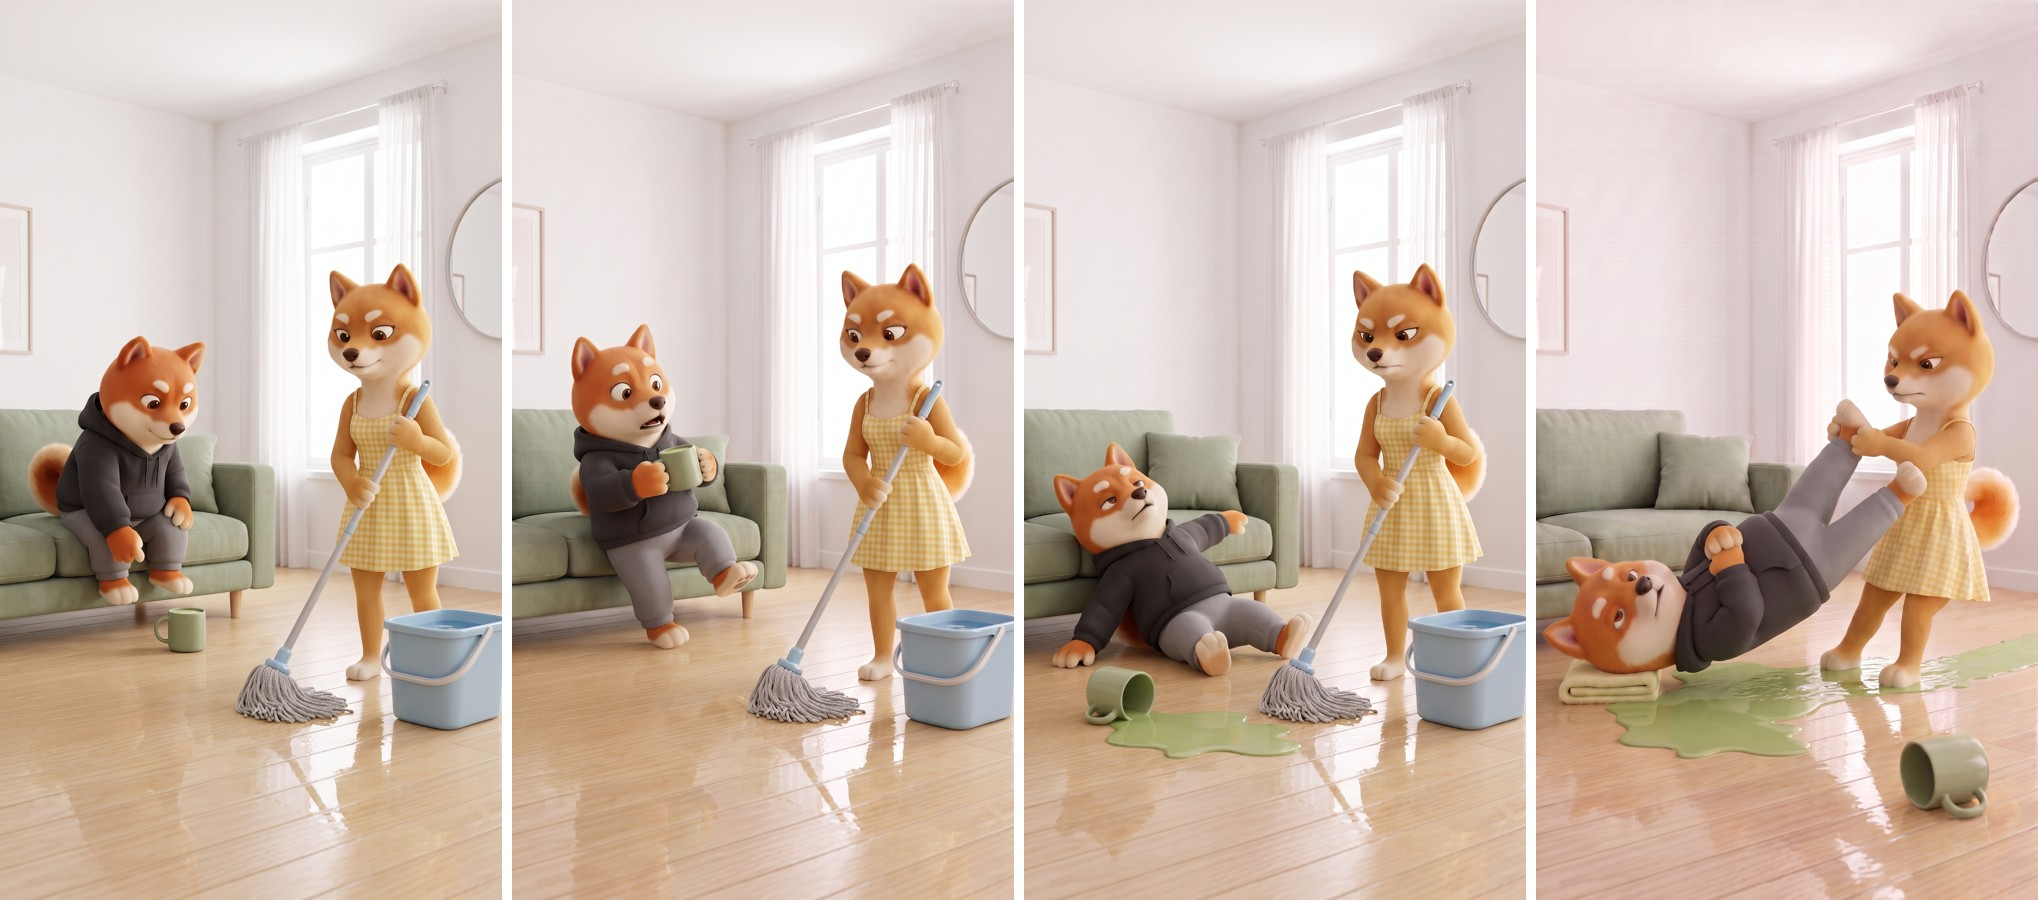
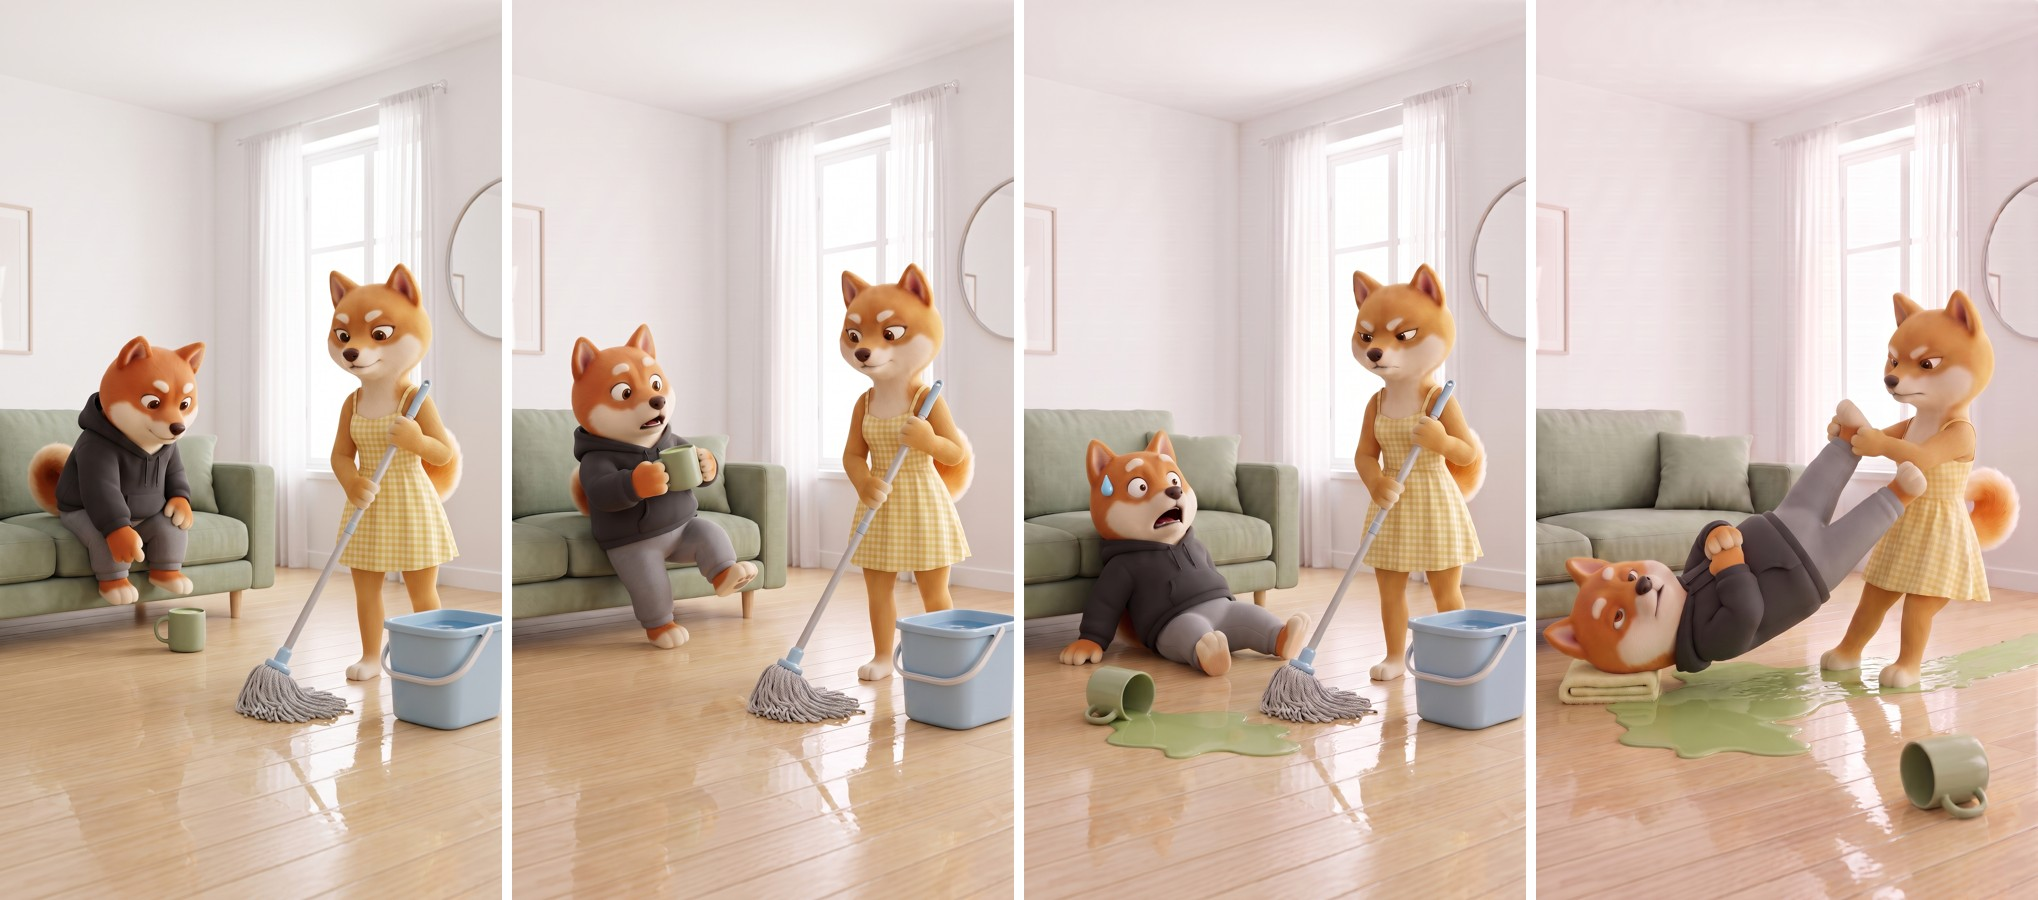
Human mop: Kenji panics after the spill
Claude-Session: https://claude.ai/code/session_01LDc9S6T3fQU2rZjsRh7sGC

diff --git a/daily/2026-11-07/v4-jobs.md b/daily/2026-11-07/v4-jobs.md
@@ -41,3 +41,4 @@ vidIQ watch 10 credits. Stills (8 credits): 1 key 6cf4aa6c-21bb-4ae1-8db1-3661be
 - Still 4 (folded towel under head): 6750d72c-d6dc-4c21-b4d2-aab31a72ac9e. Rejected f8892809, 609f8779 (third arm). Stills total 22 credits (11 stills).
 - Leg-pull mop stills (user: she pulls his legs): A side view f9311d49-1afe-4b7c-ba89-5cb3101b2ff0 (puddle under him, one leg held with both paws) · B top-down 7e938523-8461-4bd8-9f82-86e204d5ae36 (one foot held). First try 6fecc70c (puddle not under him). Model would not render both ankles held. Stills total 28 credits.
 - Mop still, tilted like a mop (user: side view, held by the legs, tilted): 07eaf4aa-f75c-40da-9574-dcea88e6cd69. Stills total 30 credits.
+- Still 3 panic version (user: Kenji panics, afraid Yuki will be angry): bb9cffce-28cc-46f9-b862-ab4a48aba865. Stills total 32 credits.

diff --git a/daily/2026-11-14/human-mop-storyboard.md b/daily/2026-11-14/human-mop-storyboard.md
@@ -50,3 +50,4 @@ Approved-for-review stills: 1 key b511c266-76ee-43f6-99a0-4c0c285c3d90 · 2 slip
 (Rejected: slip redo 298633e3, Kenji lost his hoodie and pants.)
 Update: still 4 replaced by 6750d72c-d6dc-4c21-b4d2-aab31a72ac9e (user: folded towel under Kenji's head; he lies in the puddle). Rejected: f8892809 and 609f8779 (Kenji had a third arm).
 Update: still 4 = 07eaf4aa-f75c-40da-9574-dcea88e6cd69 (side view; Yuki holds his ankle up like a mop handle, Kenji tilted, head on the folded towel as the mop pad).
+Update: still 3 = bb9cffce-28cc-46f9-b862-ab4a48aba865 (Kenji panics after the spill: wide eyes, sweat drop, gasp, staring at Yuki).
